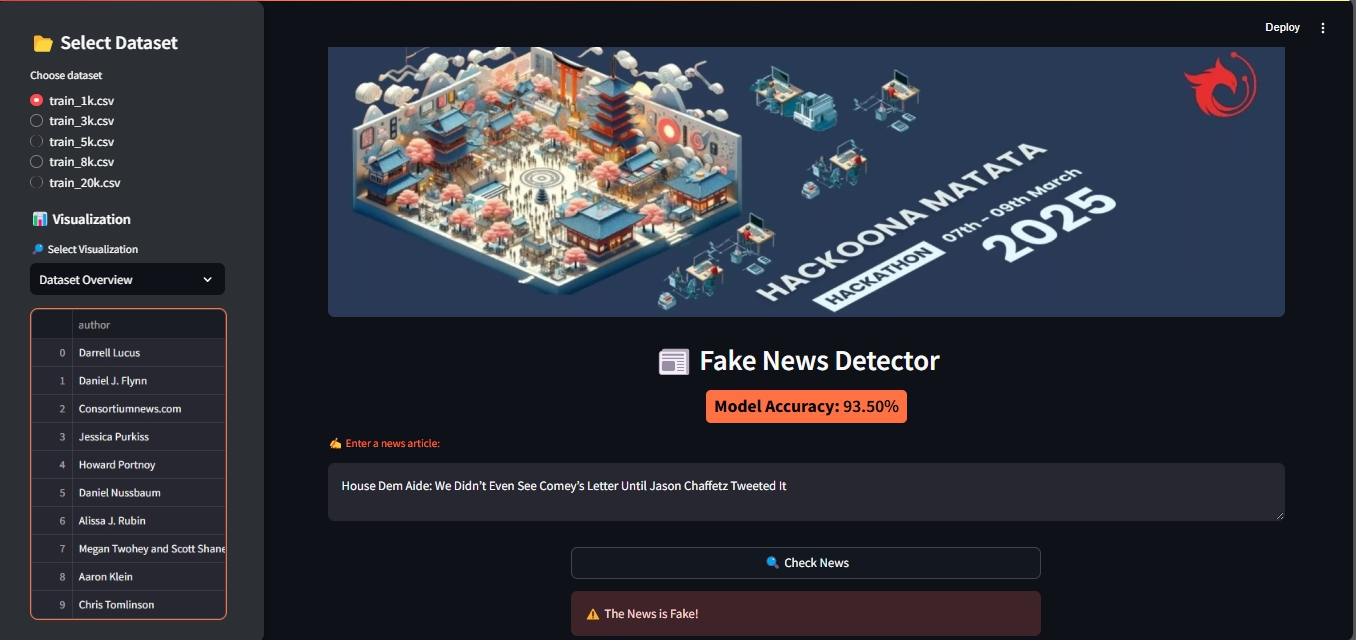
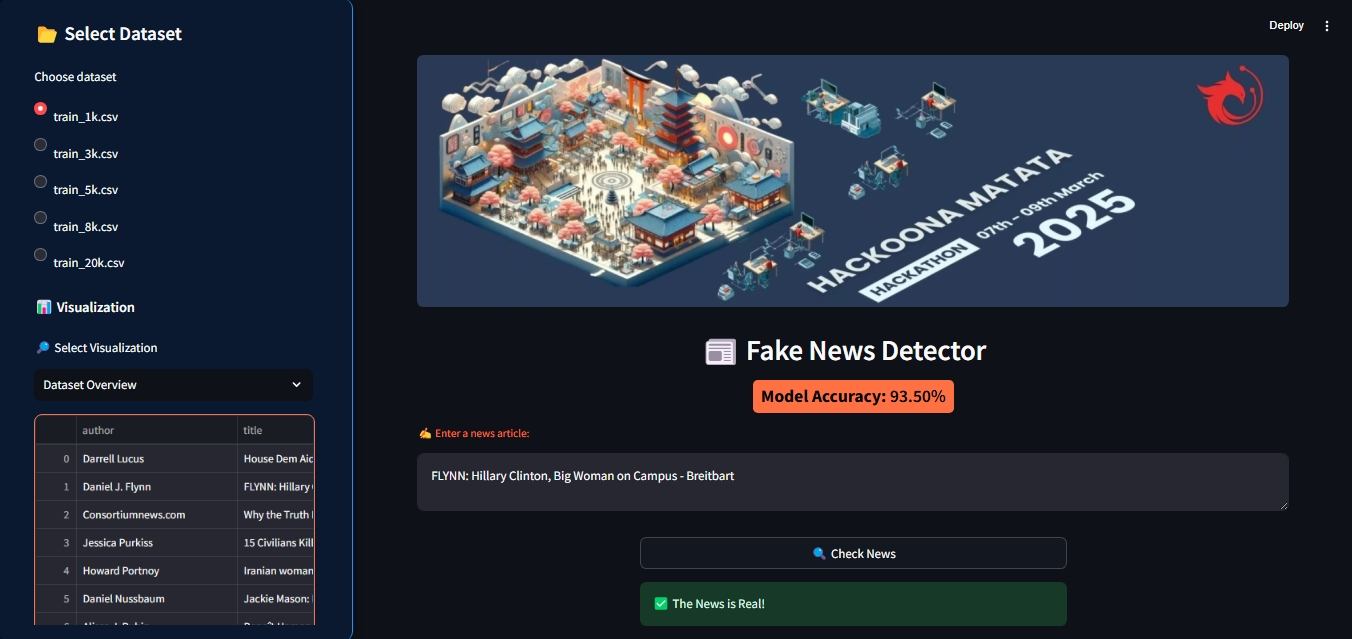
read me

diff --git a/app.py b/app.py
@@ -226,5 +226,71 @@ with col2:
         else:
             st.warning("⚠ Please enter a news article.")
 
+import streamlit as st
+
+# Custom CSS for sidebar styling to match theme
+st.markdown(
+    """
+    <style>
+        [data-testid="stSidebar"] {
+            background-color: #0A192F !important; /* Dark Navy */
+            padding: 20px;
+            border-right: 2px solid #1E90FF;
+        }
+        [data-testid="stSidebar"] h2 {
+            color: #F8F9FA; /* Light Grey-White */
+            text-align: center;
+            font-size: 22px;
+            font-weight: bold;
+        }
+        [data-testid="stSidebar"] a {
+            color: #1E90FF; /* Bright Blue */
+            text-decoration: none;
+            font-weight: bold;
+            transition: 0.3s;
+        }
+        [data-testid="stSidebar"] a:hover {
+            color: #FFD700; /* Gold */
+            text-shadow: 0px 0px 10px #FFD700;
+        }
+        [data-testid="stSidebar"] p {
+            color: #F8F9FA;
+            font-size: 16px;
+            margin: 10px 0;
+        }
+        [data-testid="stSidebar"] hr {
+            border: 1px solid #1E90FF;
+            margin: 15px 0;
+        }
+        [data-testid="stSidebar"] .icon {
+            margin-right: 8px;
+        }
+    </style>
+    """,
+    unsafe_allow_html=True
+)
+
+st.sidebar.markdown("---")
+st.sidebar.markdown("## 🖥 GitHub Link")
+st.sidebar.markdown("🔗 [View on GitHub](https://github.com/Masuddar/Hackoona-Matata-2025?tab=readme-ov-file)")
+
+st.sidebar.markdown("---")
+st.sidebar.markdown("## 🎥 Video Tutorial")
+st.sidebar.markdown("📺 **Watch Here:** [YouTube Tutorial](https://www.youtube.com/)")  # Replace with actual link
+
+st.sidebar.markdown("---")
+st.sidebar.markdown("## 🤝 Connect & Support")
+st.sidebar.markdown("📧 **Email:** masuddarrahaman31@gmail.com  \n"
+                    "🌐 **My Website:** [Masuddar.in](https://masuddar.in/)  \n"
+                    "📂 **Portfolio:**  [My Portfolio](https://masuddar.netlify.app/)  \n"
+                    "🔗 **LinkedIn:**  [My LinkedIn Profile](https://www.linkedin.com/in/masuddar-rahaman-b5044b283/)")
+
+st.sidebar.markdown("---")
+st.sidebar.markdown("## 📞 Contact the Organisers")
+st.sidebar.markdown("🏛 **IIIT Kottayam - BetaLabs**  \n"
+                    "📩 **Email:** techclub@iiitkottayam.ac.in  \n"
+                    "📱 **Phone:** +91 9100862186")
+
+
 st.markdown("---")
 st.markdown("<div class='footer'>By Masuddar Rahaman</div>", unsafe_allow_html=True)
